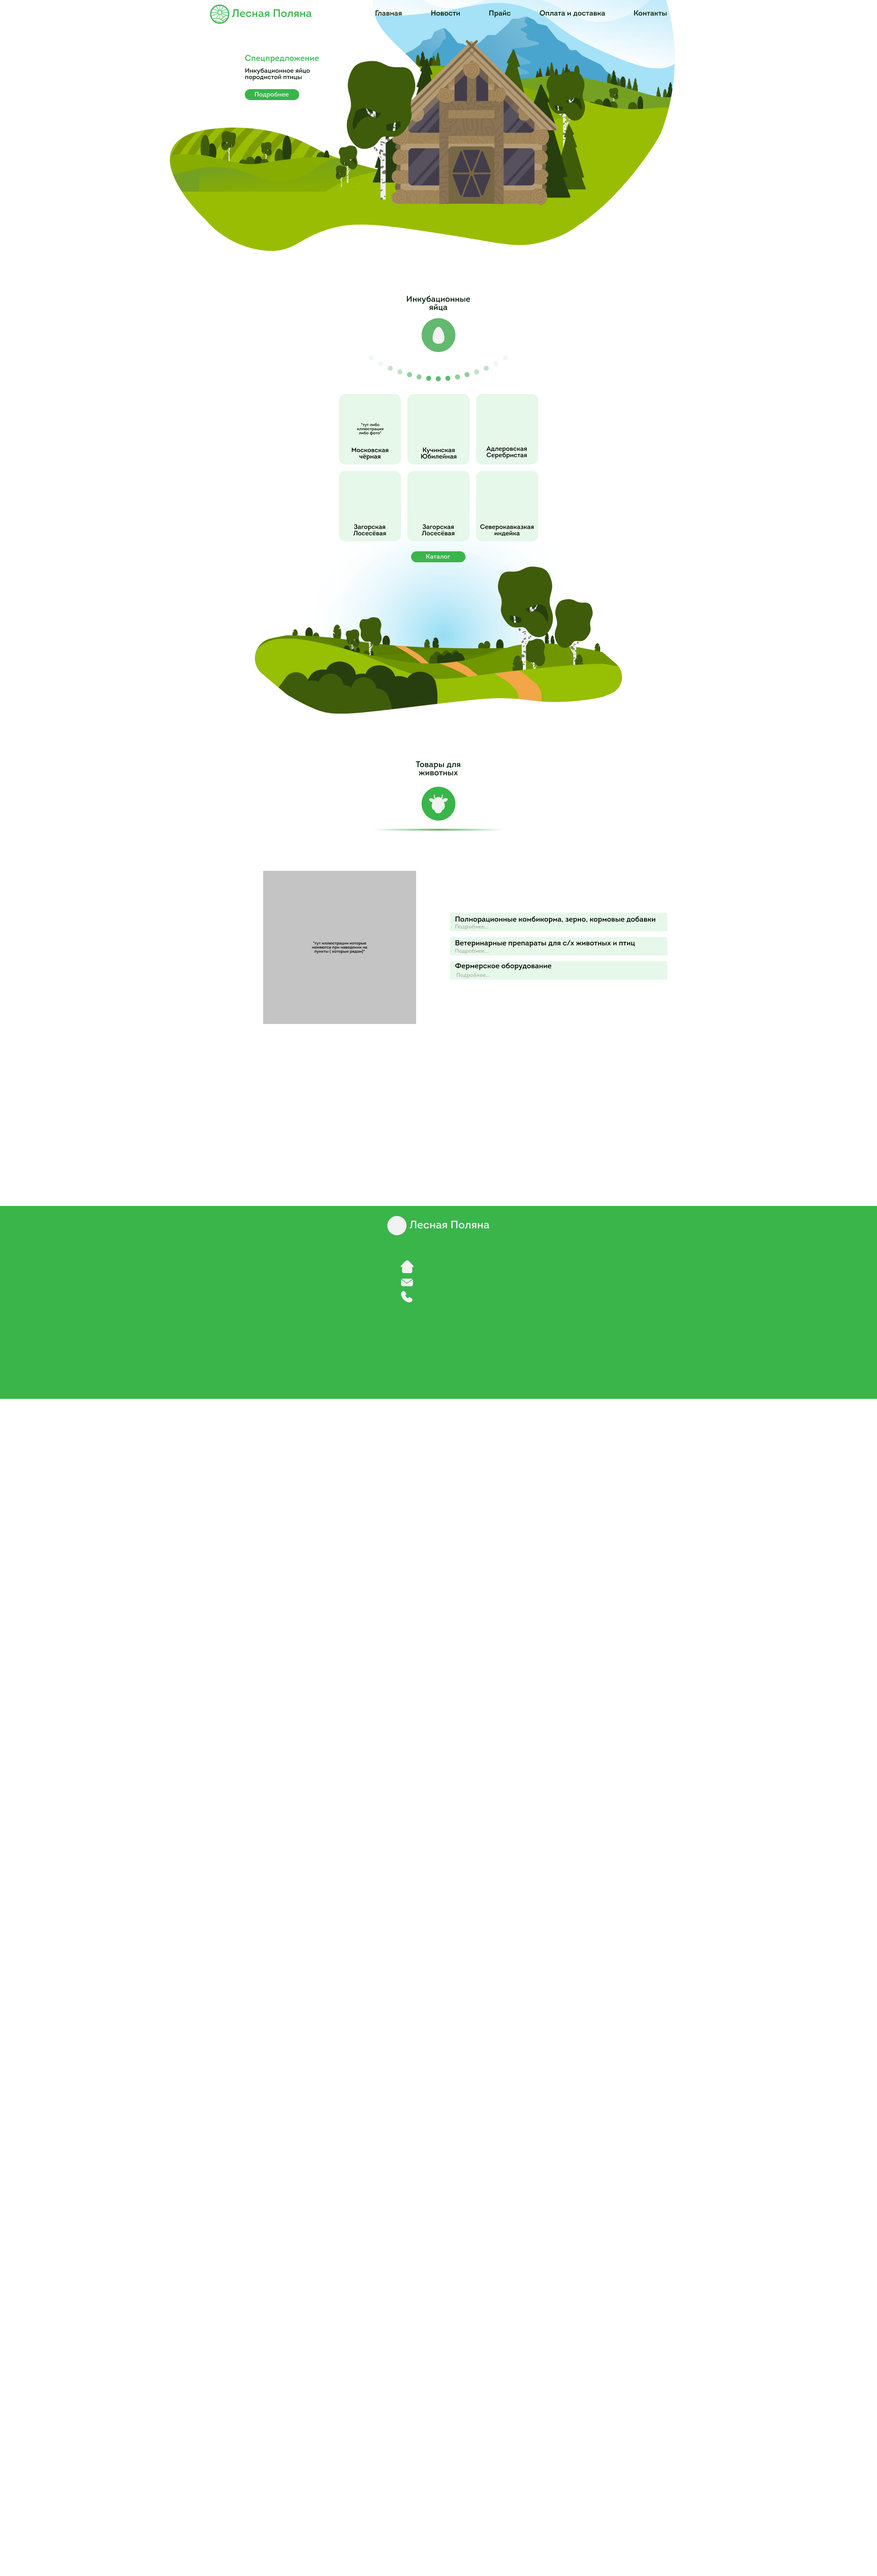
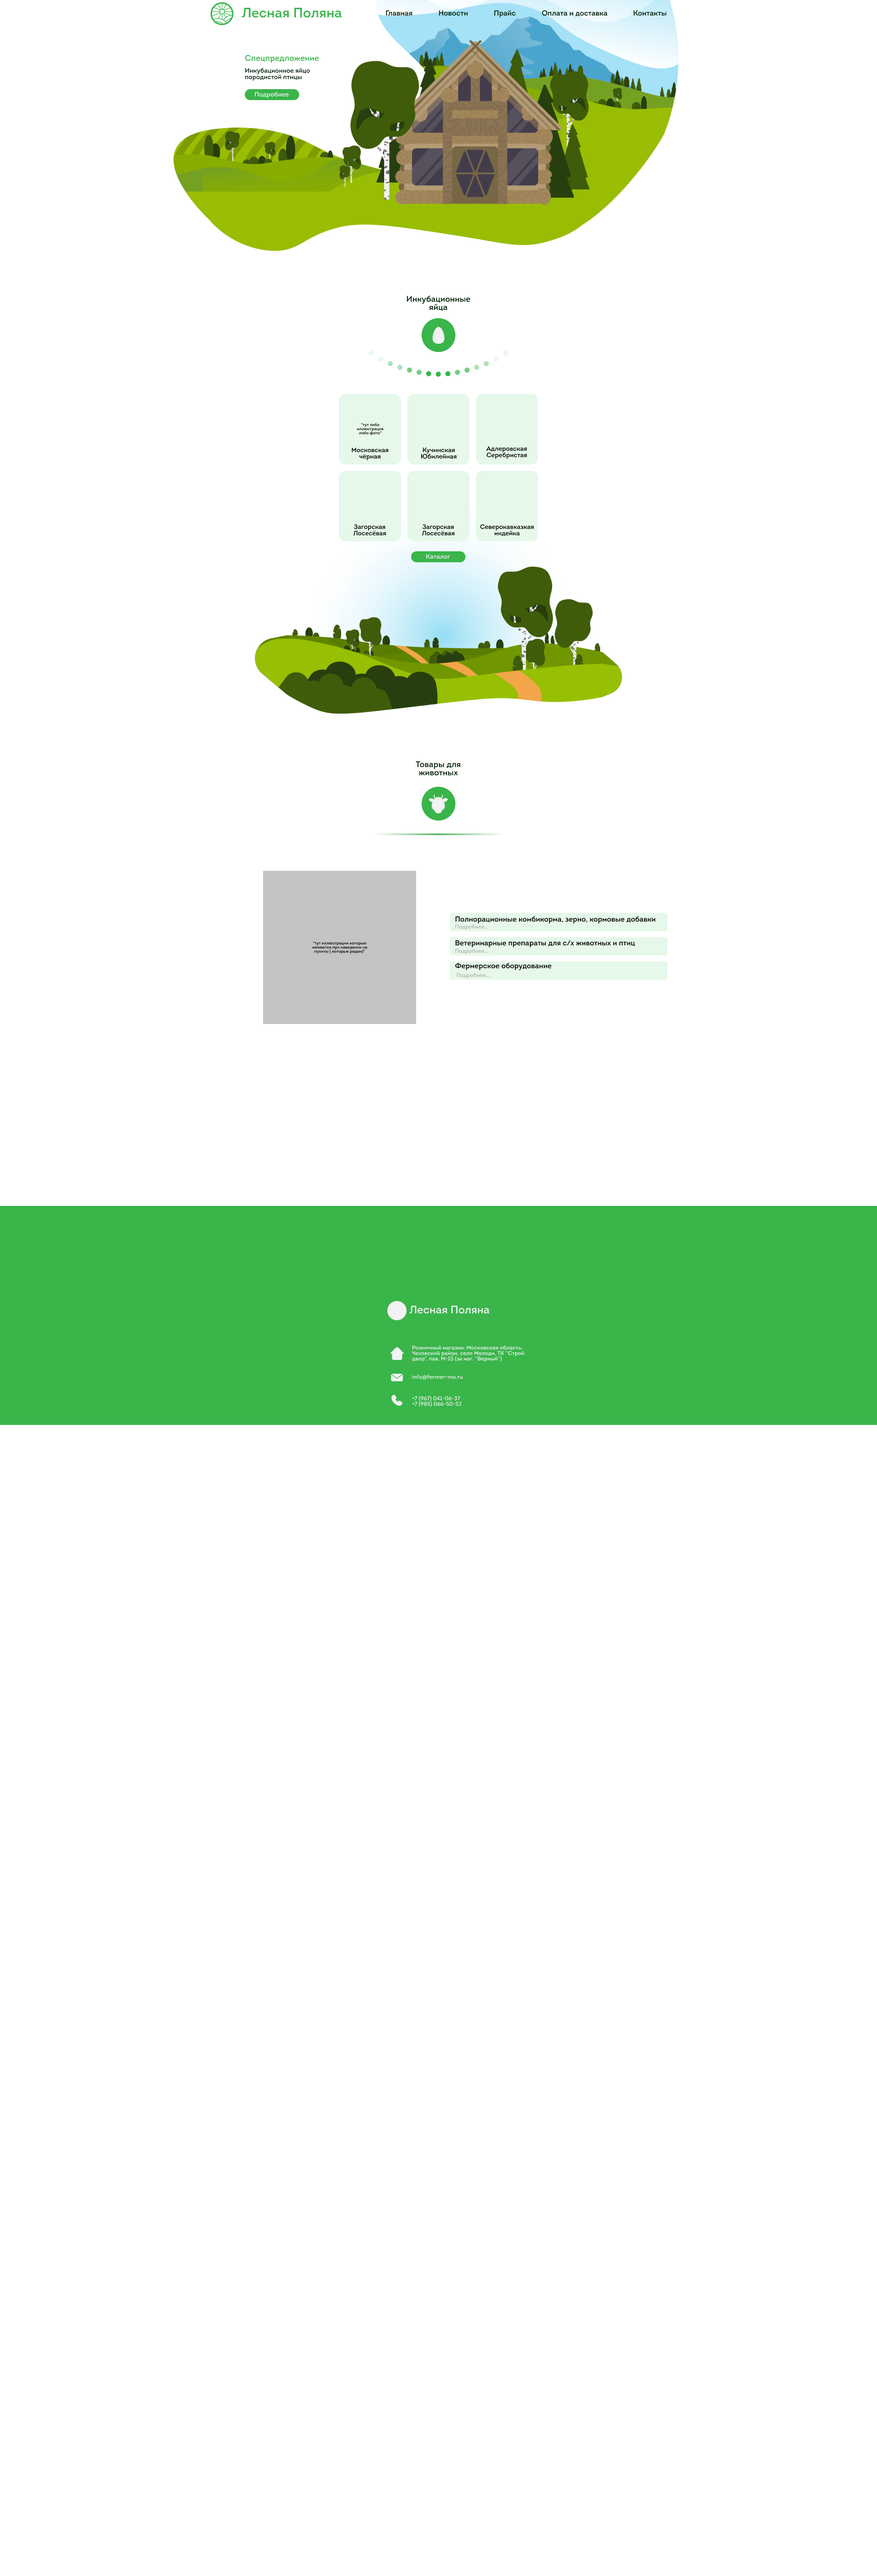
new spec

diff --git a/dist/css/main.css b/dist/css/main.css
@@ -1,1 +1,1 @@
-html{line-height:1.15;-webkit-text-size-adjust:100%;font-size:var(--rem);scroll-behavior:smooth}body{margin:0;font-family:'Intro Regular',sans-serif;color:var(--black)}hr{box-sizing:content-box;height:0;overflow:visible}code,kbd,pre,samp{font-family:monospace,monospace}abbr[title]{border-bottom:none;-webkit-text-decoration:underline dotted;text-decoration:underline dotted}b,strong{font-weight:bolder}small{font-size:80%}sub,sup{font-size:75%;line-height:0;position:relative;vertical-align:baseline}sub{bottom:-.25em}sup{top:-.5em}button,input,optgroup,select,textarea{line-height:1.15;margin:0}button,input{overflow:visible}button,select{text-transform:none}[type=button],[type=reset],[type=submit],button{-webkit-appearance:button}[type=button]::-moz-focus-inner,[type=reset]::-moz-focus-inner,[type=submit]::-moz-focus-inner,button::-moz-focus-inner{border-style:none;padding:0}[type=button]:-moz-focusring,[type=reset]:-moz-focusring,[type=submit]:-moz-focusring,button:-moz-focusring{outline:.0833rem dotted ButtonText}legend{box-sizing:border-box;display:table;max-width:100%;padding:0;white-space:normal}progress{vertical-align:baseline}[type=number]::-webkit-inner-spin-button,[type=number]::-webkit-outer-spin-button{height:auto}[type=search]{-webkit-appearance:textfield;outline-offset:-.1667rem}[type=search]::-webkit-search-decoration{-webkit-appearance:none}::-webkit-file-upload-button{-webkit-appearance:button;font:inherit}details{display:block}summary{display:list-item}*{margin:0;padding:0;box-sizing:border-box}h1,h2,h3,h4,h5,h6{font-size:inherit;font-weight:inherit}:visited,a{color:inherit;text-decoration:none}button{border:0;outline:0;color:inherit;cursor:pointer}button:focus-visible{outline:auto}button,input,optgroup,select,textarea{font-family:inherit;font-size:100%}ul,ul>li{list-style:none}@font-face{font-family:'Intro Regular';src:local('Intro Regular'),local('Intro-Regular'),url(../fonts/Intro-Regular.woff2) format('woff2'),url(../fonts/Intro-Regular.woff) format('woff'),url(../fonts/Intro-Regular.ttf) format('truetype');font-weight:400;font-style:normal;font-display:swap}:root{--rem:75%;--green:#39b54a;--black:#021e06;--white-almost:#ffffff;--white:#f2f2f2}.container{margin-left:auto;margin-right:auto;padding-left:1.6667rem;padding-right:1.6667rem;max-width:86.6667rem}.logo{--color:var(--green);height:5.3333rem}.logo__circle,.logo__field-stroke,.logo__sun-circle{stroke:var(--color)}.logo__sun-beam{fill:var(--color)}.logo-w-text{width:-webkit-fit-content;width:-moz-fit-content;width:fit-content;display:flex;align-items:center;color:var(--green)}.logo-w-text:focus-visible{outline-offset:.5rem;outline-color:var(--black)}.logo-w-text__text{margin-left:.4167rem;font-size:3rem}.header{position:fixed;z-index:200;width:100%;background-color:var(--green);transition:.4s}.container.header__container{height:5.1667rem;display:flex;justify-content:space-between;align-items:center}.logo-w-text.header__logo-w-text{color:var(--white)}.logo-w-text.header__logo-w-text .logo-w-text__text{font-size:2rem}.logo.header__logo{--color:var(--white);height:3.5rem}.nav{--underline-width:0;--underline-left:0;position:relative}.nav::after{content:'';position:absolute;left:var(--underline-left);transform:translateX(-50%);bottom:-.1667rem;height:.2083rem;width:var(--underline-width);background-color:var(--white);transition:var(--underline-transition, 0s);pointer-events:none}.nav__list{display:flex}.nav__item:not(:first-child){margin-left:5.1667rem}.nav__link{font-size:1.3333rem;color:var(--white)}.nav__link:focus-visible{outline-color:var(--green);outline-offset:.4167rem}.main{padding-top:5.1667rem}.footer{margin-top:43.75rem;background-color:var(--green);color:var(--white)}.footer__container.container{height:96.75rem;display:flex;flex-direction:column;align-items:center}.footer__img{height:49.4167rem}.footer__logo-w-text{margin-top:5.9167rem}.footer__logo-w-text .logo-w-text__text{margin-left:1.9167rem;font-size:6rem;color:var(--white)}.logo.footer__logo{height:11.9167rem;--color:var(--white)}.footer__contacts{margin-top:3.3333rem}.contacts__item{display:flex;align-items:center}.contacts__item:not(:first-child){margin-top:2.9167rem}.contacts__icon{margin-right:2.9167rem;height:4.5833rem;width:4.5833rem}.contacts__text{max-width:35.4167rem;font-size:1.5rem;line-height:1.39}address{font-style:normal}@media screen and (max-width:1220px){.container{max-width:66.6667rem}.nav.header__nav{display:none}.spec-offer__block::before{--padding-top:0.9167rem;--padding-bottom:1.4167rem;--padding-horizontal:1.0833rem;content:'';position:absolute;z-index:-1;left:calc(var(--padding-horizontal)*-1);top:calc(var(--padding-top)*-1);width:calc(100% + var(--padding-horizontal)*2);height:calc(100% + var(--padding-top) + var(--padding-bottom));background-color:rgba(255,255,255,.7);border-radius:1.25rem}}
+html{line-height:1.15;-webkit-text-size-adjust:100%;font-size:var(--rem);scroll-behavior:smooth}body{margin:0;font-family:'Intro Regular',sans-serif;color:var(--black)}hr{box-sizing:content-box;height:0;overflow:visible}code,kbd,pre,samp{font-family:monospace,monospace}abbr[title]{border-bottom:none;-webkit-text-decoration:underline dotted;text-decoration:underline dotted}b,strong{font-weight:bolder}small{font-size:80%}sub,sup{font-size:75%;line-height:0;position:relative;vertical-align:baseline}sub{bottom:-.25em}sup{top:-.5em}button,input,optgroup,select,textarea{line-height:1.15;margin:0}button,input{overflow:visible}button,select{text-transform:none}[type=button],[type=reset],[type=submit],button{-webkit-appearance:button}[type=button]::-moz-focus-inner,[type=reset]::-moz-focus-inner,[type=submit]::-moz-focus-inner,button::-moz-focus-inner{border-style:none;padding:0}[type=button]:-moz-focusring,[type=reset]:-moz-focusring,[type=submit]:-moz-focusring,button:-moz-focusring{outline:.0833rem dotted ButtonText}legend{box-sizing:border-box;display:table;max-width:100%;padding:0;white-space:normal}progress{vertical-align:baseline}[type=number]::-webkit-inner-spin-button,[type=number]::-webkit-outer-spin-button{height:auto}[type=search]{-webkit-appearance:textfield;outline-offset:-.1667rem}[type=search]::-webkit-search-decoration{-webkit-appearance:none}::-webkit-file-upload-button{-webkit-appearance:button;font:inherit}details{display:block}summary{display:list-item}*{margin:0;padding:0;box-sizing:border-box}h1,h2,h3,h4,h5,h6{font-size:inherit;font-weight:inherit}:visited,a{color:inherit;text-decoration:none}button{border:0;outline:0;color:inherit;cursor:pointer}button:focus-visible{outline:auto}button,input,optgroup,select,textarea{font-family:inherit;font-size:100%}ul,ul>li{list-style:none}@font-face{font-family:'Intro Regular';src:local('Intro Regular'),local('Intro-Regular'),url(../fonts/Intro-Regular.woff2) format('woff2'),url(../fonts/Intro-Regular.woff) format('woff'),url(../fonts/Intro-Regular.ttf) format('truetype');font-weight:400;font-style:normal;font-display:swap}:root{--rem:75%;--green:#39b54a;--black:#021e06;--white-almost:#ffffff;--white:#f2f2f2;--header-height:5rem}.container{margin-left:auto;margin-right:auto;padding-left:1.6667rem;padding-right:1.6667rem;max-width:86.6667rem}.logo{--color:var(--green);height:5.3333rem}.logo__circle,.logo__field-stroke,.logo__sun-circle{stroke:var(--color)}.logo__sun-beam{fill:var(--color)}.logo-w-text{width:-webkit-fit-content;width:-moz-fit-content;width:fit-content;display:flex;align-items:center;color:var(--green)}.logo-w-text:focus-visible{outline-offset:.5rem;outline-color:var(--black)}.logo-w-text__text{margin-left:1.5rem;font-size:3rem}.header{position:fixed;z-index:200;width:100%;background-color:var(--green);transition:.4s}.container.header__container{height:var(--header-height);display:flex;justify-content:space-between;align-items:center}.logo-w-text.header__logo-w-text{color:var(--white)}.logo-w-text.header__logo-w-text .logo-w-text__text{margin-left:1.625rem;font-size:2.5rem}.logo.header__logo{--color:var(--white);height:4.1667rem}.nav{--underline-width:0;--underline-left:0;position:relative}.nav::after{content:'';position:absolute;left:var(--underline-left);transform:translateX(-50%);bottom:-.1667rem;height:.2083rem;width:var(--underline-width);background-color:var(--white);transition:var(--underline-transition, 0s);pointer-events:none}.nav__list{display:flex}.nav__item:not(:first-child){margin-left:4.7083rem}.nav__link{font-size:1.3333rem;color:var(--white)}.nav__link:focus-visible{outline-color:var(--green);outline-offset:.4167rem}.main{padding-top:var(--header-height)}.footer{margin-top:43.75rem;background-color:var(--green);color:var(--white)}.footer__container.container{height:96.75rem;display:flex;flex-direction:column;align-items:center}.footer__img{height:49.4167rem}.footer__logo-w-text{margin-top:5.9167rem}.footer__logo-w-text .logo-w-text__text{margin-left:1.9167rem;font-size:6rem;color:var(--white)}.logo.footer__logo{height:11.9167rem;--color:var(--white)}.footer__contacts{margin-top:3.3333rem}.contacts__item{display:flex;align-items:center}.contacts__item:not(:first-child){margin-top:2.9167rem}.contacts__icon{margin-right:2.9167rem;height:4.5833rem;width:4.5833rem}.contacts__text{max-width:35.4167rem;font-size:1.5rem;line-height:1.39}address{font-style:normal}@media screen and (max-width:1220px){.container{max-width:66.6667rem}.nav.header__nav{display:none}.spec-offer__block::before{--padding-top:0.9167rem;--padding-bottom:1.4167rem;--padding-horizontal:1.0833rem;content:'';position:absolute;z-index:-1;left:calc(var(--padding-horizontal)*-1);top:calc(var(--padding-top)*-1);width:calc(100% + var(--padding-horizontal)*2);height:calc(100% + var(--padding-top) + var(--padding-bottom));background-color:rgba(255,255,255,.7);border-radius:1.25rem}}

diff --git a/dist/css/index.css b/dist/css/index.css
@@ -1,1 +1,1 @@
-.header.header_main-page,.header.header_main-page .nav::after{background-color:transparent}.header.header_main-page .logo-w-text.header__logo-w-text{color:var(--green)}.header.header_main-page .logo.header__logo{--color:var(--green)}.header.header_main-page .nav__link{color:var(--black);transition:.5s}.header.header_main-page .nav__link:hover{color:var(--green)}.spec-offer__block{margin-top:4.5rem;margin-left:6.3333rem;position:relative;width:13.5833rem;height:9.25rem;display:flex;flex-direction:column}.spec-offer__title{font-size:1.5rem;color:var(--green)}.spec-offer__name{margin-top:.8333rem;font-size:1.1667rem}.spec-offer__more-btn{margin-top:1.4167rem;padding:.4167rem 1.8333rem;width:-webkit-fit-content;width:-moz-fit-content;width:fit-content;display:block;background-color:var(--green);border-radius:2.0833rem;font-size:1.1667rem;color:var(--white)}.spec-offer__more-btn:focus{outline:0;box-shadow:0 0 0 .125rem var(--black)}.house-bg{position:absolute;z-index:-100;left:calc(50% - 3.0833rem);top:-20.8333rem;width:92.0833rem;height:66.75rem;transform:translateX(-50%);background:url(../img/house.svg) center/contain no-repeat}.introduction{margin-top:62.5rem;height:91.1667rem;font-size:2rem;line-height:1.67;text-align:justify}.introduction__img{position:relative;z-index:-100;left:50%;width:145.4167rem;height:106.1667rem;transform:translate(-50%,-35rem);background:url(../img/glade.svg) center/contain no-repeat}.partners{margin-top:23.25rem;display:flex;justify-content:flex-end;align-items:center}.partners__img{margin-right:2.5rem;width:71.9167rem;height:51.3333rem}.about__text,.partners__text{flex-shrink:0;flex-grow:0;width:48.75rem;font-size:1.6667rem;line-height:2;text-align:justify}.about{display:flex;justify-content:flex-start;align-items:center;transform:translateY(-4.5833rem)}.about__img{margin-left:2.0833rem;width:780;height:68.75rem}
+.header.header_main-page,.header.header_main-page .nav::after{background-color:transparent}.header.header_main-page .logo-w-text.header__logo-w-text{color:var(--green)}.header.header_main-page .logo.header__logo{--color:var(--green)}.header.header_main-page .nav__link{color:var(--black);transition:.5s}.header.header_main-page .nav__link:hover{color:var(--green)}.spec-offer__block{margin-top:4.6917rem;margin-left:6.3333rem;position:relative;width:13.5833rem;height:9.25rem;display:flex;flex-direction:column}.spec-offer__title{font-size:1.5rem;color:var(--green)}.spec-offer__name{margin-top:.8333rem;font-size:1.1667rem}.spec-offer__more-btn{margin-top:1.3333rem;padding:.4167rem 1.8333rem;width:-webkit-fit-content;width:-moz-fit-content;width:fit-content;display:block;background-color:var(--green);border-radius:2.0833rem;font-size:1.1667rem;color:var(--white)}.spec-offer__more-btn:focus{outline:0;box-shadow:0 0 0 .125rem var(--black)}.house-bg{position:absolute;z-index:-100;left:calc(50% - 2.25rem);top:-20.8333rem;width:92.0833rem;height:66.75rem;transform:translateX(-50%);background:url(../img/house.svg) center/contain no-repeat}.introduction{margin-top:62.5rem;height:91.1667rem;font-size:2rem;line-height:1.67;text-align:justify}.introduction__img{position:relative;z-index:-100;left:50%;width:145.4167rem;height:106.1667rem;transform:translate(-50%,-35rem);background:url(../img/glade.svg) center/contain no-repeat}.partners{margin-top:23.25rem;display:flex;justify-content:flex-end;align-items:center}.partners__img{margin-right:2.5rem;width:71.9167rem;height:51.3333rem}.about__text,.partners__text{flex-shrink:0;flex-grow:0;width:48.75rem;font-size:1.6667rem;line-height:2;text-align:justify}.about{display:flex;justify-content:flex-start;align-items:center;transform:translateY(-4.5833rem)}.about__img{margin-left:2.0833rem;width:780;height:68.75rem}

diff --git a/src/css/main.css b/src/css/main.css
@@ -6,6 +6,8 @@
   --black: #021e06;
   --white-almost: #ffffff;
   --white: #f2f2f2;
+  /* Sizes */
+  --header-height: 60px;
 }
 
 html {
@@ -56,7 +58,7 @@ body {
 }
 
 .logo-w-text__text {
-  margin-left: 5px;
+  margin-left: 18px;
   font-size: 36px;
 }
 
@@ -71,7 +73,7 @@ body {
 }
 
 .container.header__container {
-  height: 62px;
+  height: var(--header-height);
   display: flex;
   justify-content: space-between;
   align-items: center;
@@ -82,12 +84,13 @@ body {
 }
 
 .logo-w-text.header__logo-w-text .logo-w-text__text {
-  font-size: 24px;
+  margin-left: 19.5px;
+  font-size: 30px;
 }
 
 .logo.header__logo {
   --color: var(--white);
-  height: 42px;
+  height: 50px;
 }
 
 .nav.header__nav {}
@@ -118,7 +121,7 @@ body {
 }
 
 .nav__item:not(:first-child) {
-  margin-left: 62px;
+  margin-left: 56.5px;
 }
 
 .nav__item {}
@@ -136,7 +139,7 @@ body {
 /* Main */
 
 .main {
-  padding-top: 62px;
+  padding-top: var(--header-height);
 }
 
 .container.main__container {}

diff --git a/src/css/index.css b/src/css/index.css
@@ -15,7 +15,7 @@
 
 .header.header_main-page .nav__link {
   color: var(--black);
-  transition: 0.5s;
+  transition: .5s;
 }
 
 .header.header_main-page .nav__link:hover {
@@ -32,7 +32,7 @@
 }
 
 .spec-offer__block {
-  margin-top: 54px;
+  margin-top: 56.3px;
   margin-left: 76px;
   position: relative;
   width: 163px;
@@ -53,7 +53,7 @@
 }
 
 .spec-offer__more-btn {
-  margin-top: 17px;
+  margin-top: 16px;
   padding: 5px 22px;
   width: fit-content;
   display: block;
@@ -73,7 +73,7 @@
 .house-bg {
   position: absolute;
   z-index: -100;
-  left: calc(50% - 37px);
+  left: calc(50% - 27px);
   top: -250px;
   width: 1105px;
   height: 801px;
